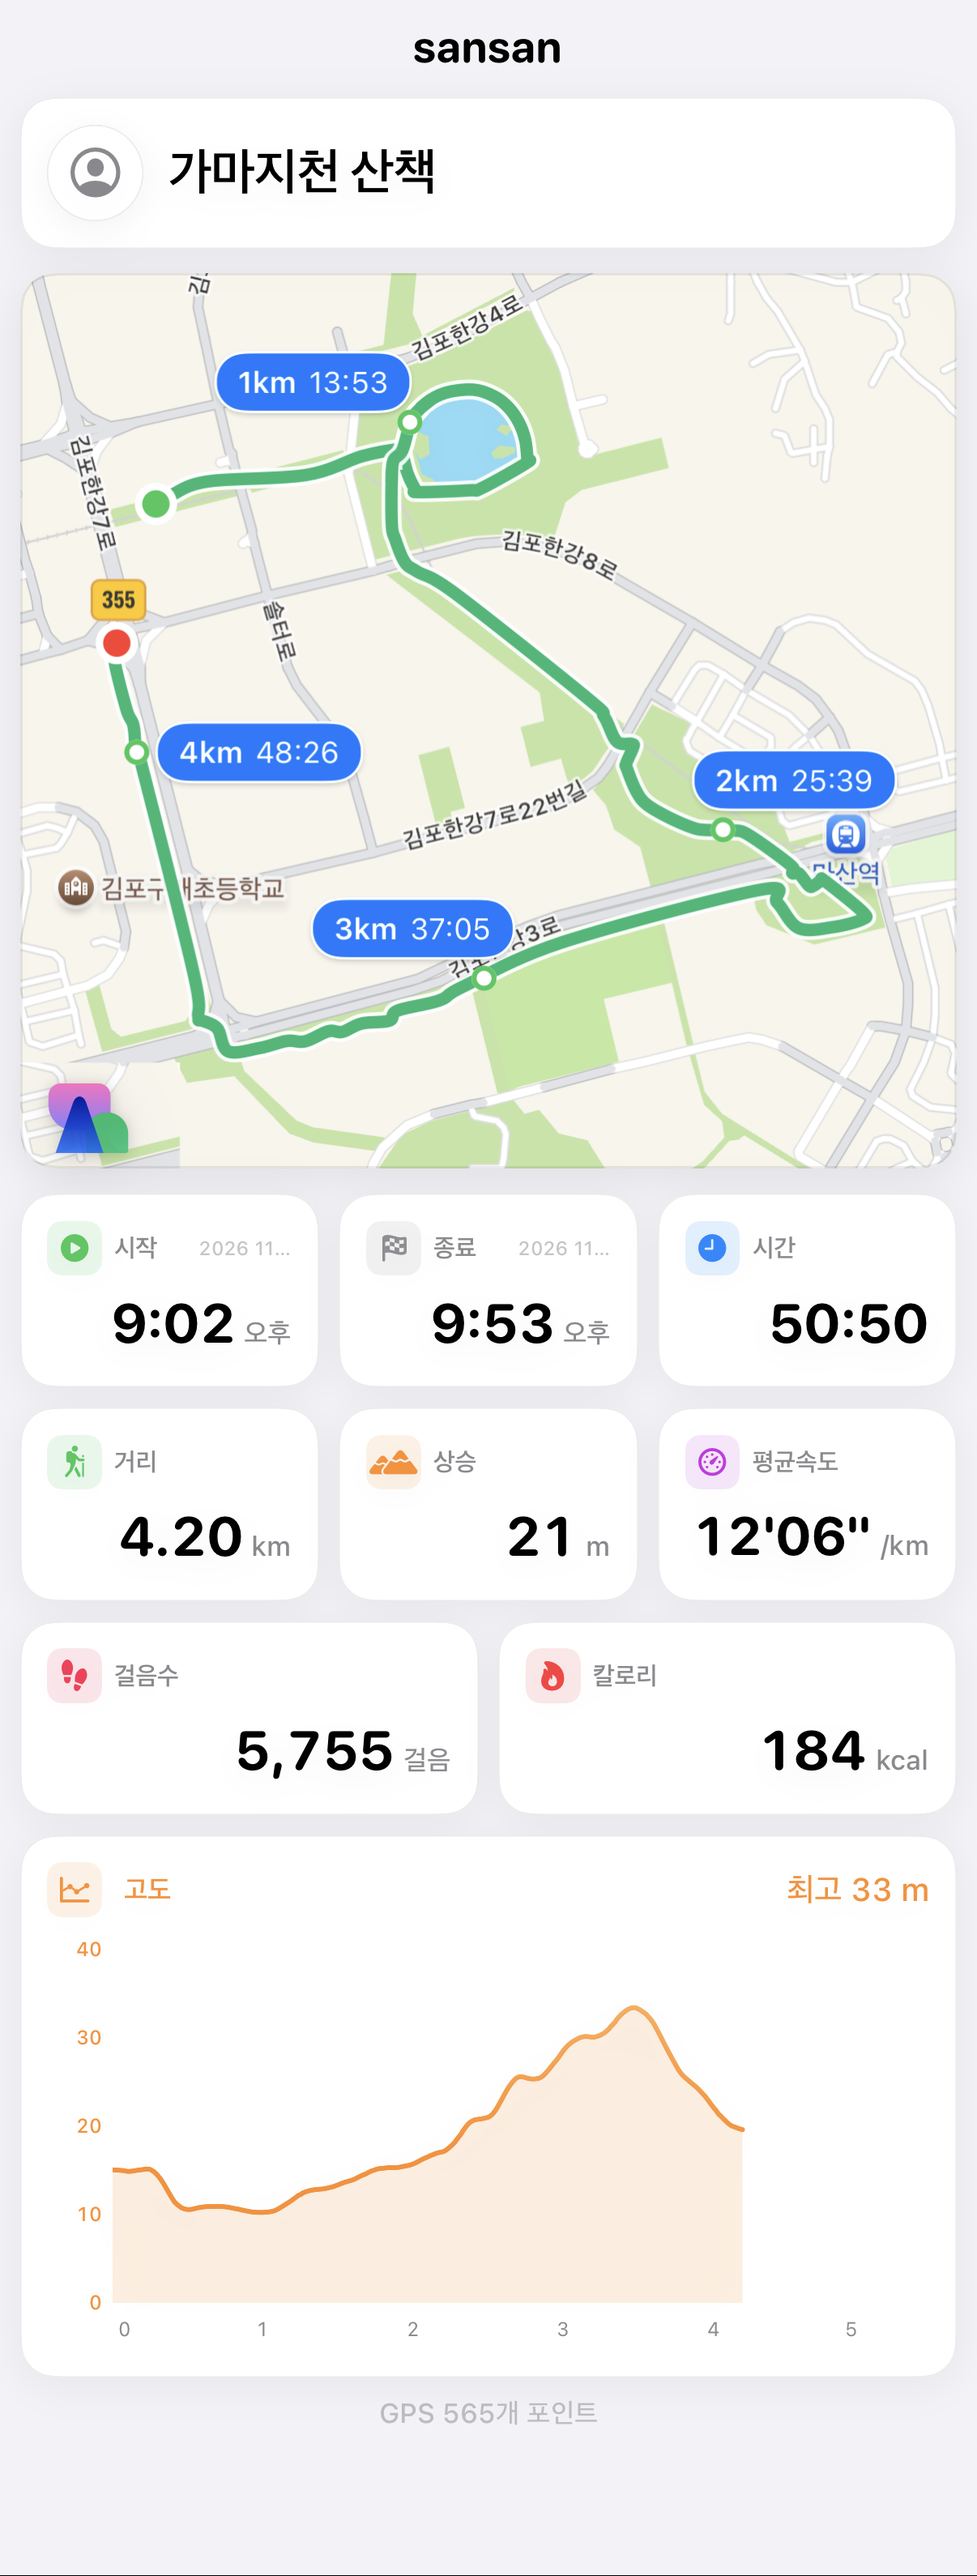
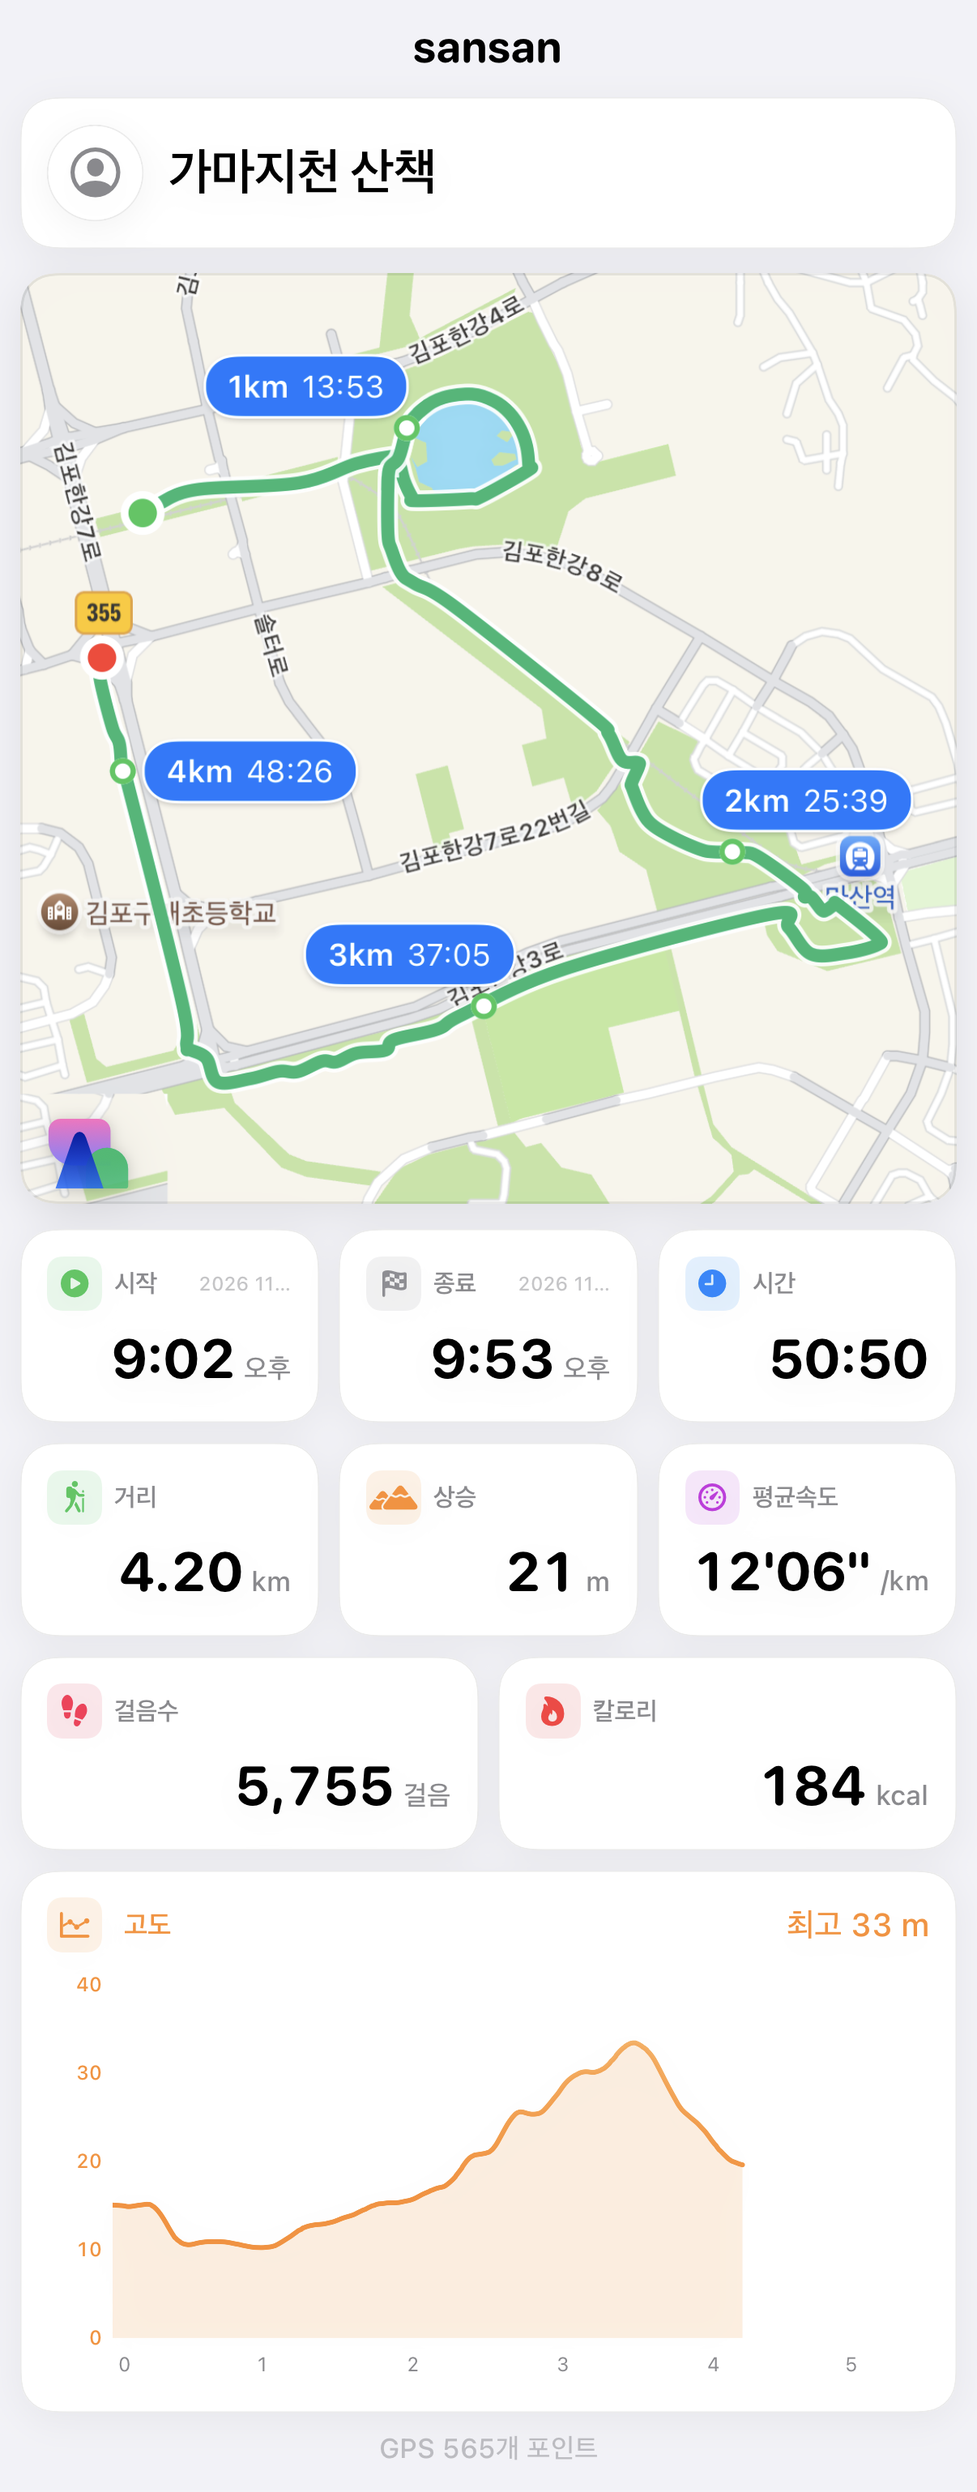
fix(ios): refresh settings previews + weather-aware Data Card
Rebuild pager thumbs from v7 glass saves so settings Simple Color
shows map bleed; honor mapOptions.showsWeatherLabel on Data Card
exports (Android parity, no weather chip); trim pad ~14pt under GPS.

diff --git a/sansan/HikingRecordShareComposer.swift b/sansan/HikingRecordShareComposer.swift
@@ -95,6 +95,8 @@ struct HikingRecordShareCardView: View {
     var preservesCapturedLogo: Bool = false
     /// 산행 중 스냅샷이면 일정 카드에 "현재" 라벨을 씁니다.
     var isInProgressSnapshot: Bool = false
+    /// When nil, falls back to `HikingShareExportPreferences.mapOptions.showsWeatherLabel`.
+    var showsWeatherLabel: Bool? = nil
 
     static let legacyExportWidth: CGFloat = 1080
     static let nineBySixteenHeight: CGFloat = 1920
@@ -250,7 +252,8 @@ struct HikingRecordShareCardView: View {
         }
         .frame(width: contentWidth, height: mapHeight)
         .overlay(alignment: HikingMapDisplayPreferences.weatherLabelOnLeading ? .topLeading : .topTrailing) {
-            if HikingShareExportPreferences.mapOptions.showsWeatherLabel, let weather = record.weather {
+            if showsWeatherLabel ?? HikingShareExportPreferences.mapOptions.showsWeatherLabel,
+               let weather = record.weather {
                 HikingRecordMapWeatherOverlay(weather: weather, layoutScale: layoutScale)
                     .padding(10 * layoutScale)
             }
@@ -271,14 +274,16 @@ enum HikingRecordShareComposer {
         routeImage: UIImage,
         format: HikingRecordShareExportFormat = .contentSized,
         preservesCapturedLogo: Bool = false,
-        isInProgressSnapshot: Bool = false
+        isInProgressSnapshot: Bool = false,
+        showsWeatherLabel: Bool? = nil
     ) -> UIImage? {
         let card = HikingRecordShareCardView(
             record: record,
             routeImage: routeImage,
             format: format,
             preservesCapturedLogo: preservesCapturedLogo,
-            isInProgressSnapshot: isInProgressSnapshot
+            isInProgressSnapshot: isInProgressSnapshot,
+            showsWeatherLabel: showsWeatherLabel
         )
 
         guard let image = renderCardBitmap(card) else {
@@ -335,7 +340,8 @@ enum HikingRecordShareComposer {
         while lastContent > 0, isPageBg(lastContent) {
             lastContent -= 1
         }
-        let padPx = max(Int((HikingRecordCardLayout.detailBottomPadding * image.scale).rounded()), 1)
+        // Match Android wrap trailing under GPS footer (~14pt); not the old 36pt buffer.
+        let padPx = max(Int((14 * image.scale).rounded()), 1)
         let newHeight = min(height, lastContent + 1 + padPx)
         guard newHeight > 8, newHeight < height else { return image }
         guard let cropped = cg.cropping(to: CGRect(x: 0, y: 0, width: width, height: newHeight)) else {

diff --git a/Shared/Storage/HikingRecordStore.swift b/Shared/Storage/HikingRecordStore.swift
@@ -109,7 +109,8 @@ final class HikingRecordStore: ObservableObject {
 
     /// 공유·저장 이미지 — 상세 화면과 동일한 SwiftUI 레이아웃으로 렌더링(sansan 앱에서 등록).
     /// `fullScreen`이 true이면 기기 화면 전체 크기로 렌더링(사진 저장용).
-    static var shareImageRenderer: (@MainActor (SavedHikingSession, UIImage, Bool, Bool) -> UIImage?)?
+    /// (record, routeImage, fullScreen, preservesCapturedLogo, mapOptions)
+    static var shareImageRenderer: (@MainActor (SavedHikingSession, UIImage, Bool, Bool, HikingShareMapExportOptions) -> UIImage?)?
     static var summaryImageRenderer: (@MainActor (SavedHikingSession, HikingShareMapExportOptions) async -> UIImage?)?
 
     /// 사진 저장용 — 기록 상세 지도와 동일한 pt·배율(sansan 앱에서 등록).
@@ -526,7 +527,13 @@ final class HikingRecordStore: ObservableObject {
             fullScreen: fullScreen
         ) else { return nil }
         if let renderer = Self.shareImageRenderer {
-            return renderer(record, routeImage.image, fullScreen, routeImage.includesOnScreenLogo)
+            return renderer(
+                record,
+                routeImage.image,
+                fullScreen,
+                routeImage.includesOnScreenLogo,
+                mapOptions
+            )
         }
         return nil
     }

diff --git a/sansan/AppShellView.swift b/sansan/AppShellView.swift
@@ -96,12 +96,13 @@ struct AppShellView: View {
         HikingRecordStore.summaryImageRenderer = { record, mapOptions in
             await HikingRecordSummaryShareComposer.render(record: record, mapOptions: mapOptions)
         }
-        HikingRecordStore.shareImageRenderer = { record, routeImage, fullScreen, preservesCapturedLogo in
+        HikingRecordStore.shareImageRenderer = { record, routeImage, fullScreen, preservesCapturedLogo, mapOptions in
             HikingRecordShareComposer.render(
                 record: record,
                 routeImage: routeImage,
                 format: fullScreen ? .fullScreen : .contentSized,
-                preservesCapturedLogo: preservesCapturedLogo
+                preservesCapturedLogo: preservesCapturedLogo,
+                showsWeatherLabel: mapOptions.showsWeatherLabel
             )
         }
         HikingRecordStore.detailShareMapCanvasProvider = {

diff --git a/sansan/HikingRecordSummaryShareComposer.swift b/sansan/HikingRecordSummaryShareComposer.swift
@@ -95,10 +95,10 @@ private enum ShareSummaryElevLegendSwatch {
 private enum ShareSummaryGlassBackdrop {
     /// Android `ShareSummaryGlass` code + v7 measured plate tune.
     /// Bake in **pixel space** with `designScale = widthPx/430` + stack-blur.
-    /// Fill/wash lowered from 0.38/0.12 — mid-card plate was ~+4.5 L vs Android (too milky).
+    /// Fill/wash lowered from 0.38/0.12 — mid-card plate was milky vs Android; 0.26/0.08 for map bleed.
     static let blurRadiusPt: CGFloat = 36
-    static let glassFillAlpha: CGFloat = 0.30
-    static let washAlpha: CGFloat = 0.09
+    static let glassFillAlpha: CGFloat = 0.26
+    static let washAlpha: CGFloat = 0.08
     static let rimAlpha: CGFloat = 0.72
     static let catchLightAlpha: CGFloat = 0.55
     private static let blurDownscaleFactor = 4
